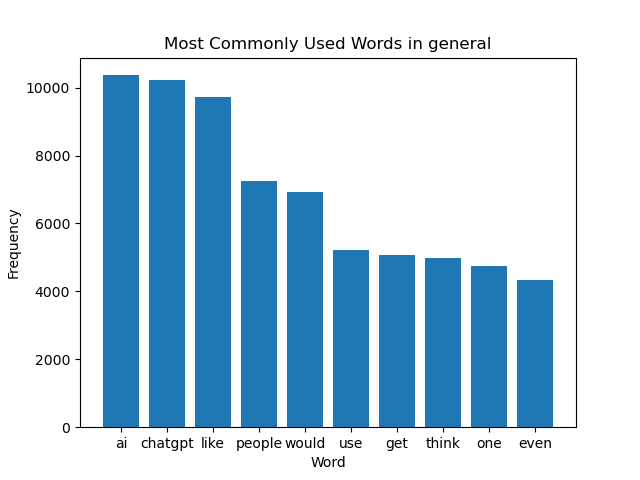
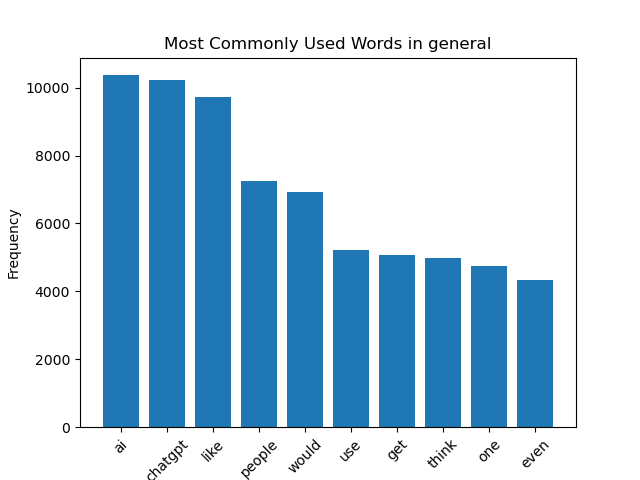
we can get a adj frequency statics now

diff --git a/FinalWork/initializer.py b/FinalWork/initializer.py
@@ -1,6 +1,7 @@
 import re
 from collections import Counter
 
+import nltk
 import numpy as np
 import pandas as pd
 from matplotlib import pyplot as plt
@@ -9,16 +10,51 @@ from nltk.corpus import stopwords
 noise = stopwords.words("english")
 
 
-# detect meaningless words
-def is_meaningless_str(s):
-    # meaningfully word won't be too long
-    if len(s) > 10 or not set(s).issubset(set('0123456789abcdef')):
-        return True
-    # after removing duplicated words, if the length reduce too much, we can assume it may be meaningless.
-    return len(set(s)) < len(s)
+def part_of_speech(words):
+    # Define the classes and their corresponding keywords
+    data = []
+    # set the sample size
+    count = 1000000
+    for sent in words:
+        if count < 0:
+            break
+        count -= 1
+        data.append(nltk.pos_tag(nltk.word_tokenize(sent)))
+    # collect all the words with label JJ
+    adj = []
+    for i in range(len(data)):
+        for j in range(len(data[i])):
+            if data[i][j][1] == "JJ":
+                adj.append(data[i][j][0])
+    words_count = Counter(adj)
+    # depict the picture of most common adj
+    top_words = words_count.most_common(10)  # Change the number to show more/less words
+    x_values = [word[0] for word in top_words]
+    y_values = [word[1] for word in top_words]
+    plt.bar(x_values, y_values)
+    plt.xlabel('Word')
+    plt.xticks(rotation=45)
+    plt.ylabel('Frequency')
+    plt.title('Most Commonly Used adj Words')
+    plt.savefig("Most Commonly Used adj Words.png")
+    plt.show()
 
 
-# only can handle one word at a time
+def general_counter(words):
+    # Count the frequency of each word
+    # this Counter function is from Collections library
+    word_counts = Counter(words)
+    # Create a bar chart of the most common words
+    top_words = word_counts.most_common(10)  # Change the number to show more/less words
+    x_values = [word[0] for word in top_words]
+    y_values = [word[1] for word in top_words]
+    plt.bar(x_values, y_values)
+    plt.xlabel('Word')
+    plt.ylabel('Frequency')
+    plt.xticks(rotation=45)
+    plt.title('Most Commonly Used Words in general')
+    plt.savefig("Most Commonly Used Words in general.png")
+    plt.show()
 
 
 def main():
@@ -40,18 +76,9 @@ def main():
     # Remove stop words
     stop_words = set(stopwords.words('english'))
     words = [word for word in words if not word in stop_words]
-    # Count the frequency of each word
-    # this Conter function is from Collections library
-    word_counts = Counter(words)
-    # Create a bar chart of the most common words
-    top_words = word_counts.most_common(10)  # Change the number to show more/less words
-    x_values = [word[0] for word in top_words]
-    y_values = [word[1] for word in top_words]
-    plt.bar(x_values, y_values)
-    plt.xlabel('Word')
-    plt.ylabel('Frequency')
-    plt.title('Most Commonly Used Words in general')
-    plt.savefig("Most Commonly Used Words in general.png")
+    #
+    general_counter(words)
+    part_of_speech(words)
 
 
 if __name__ == '__main__':
